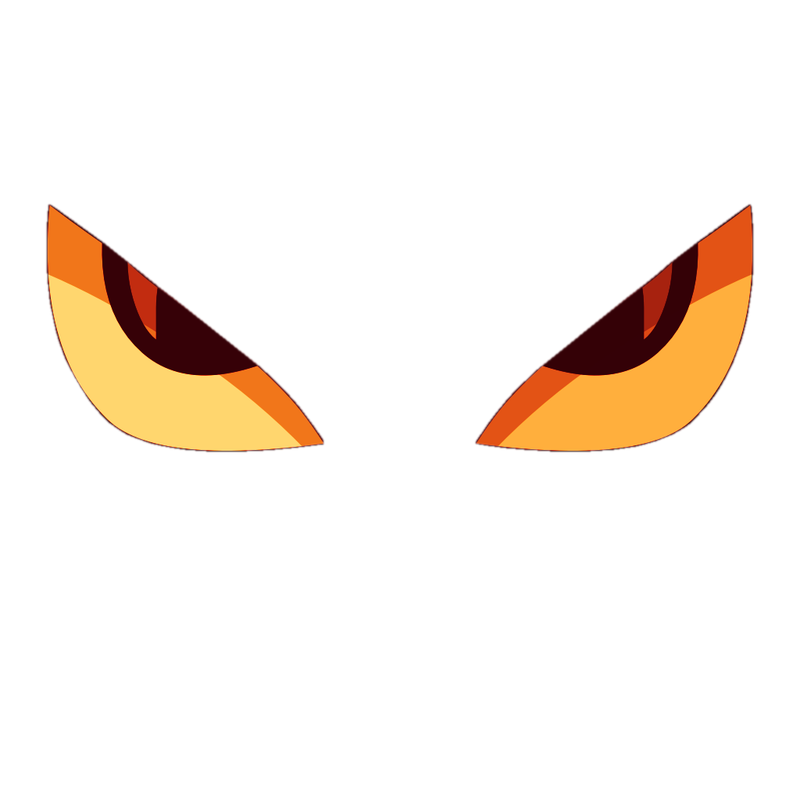
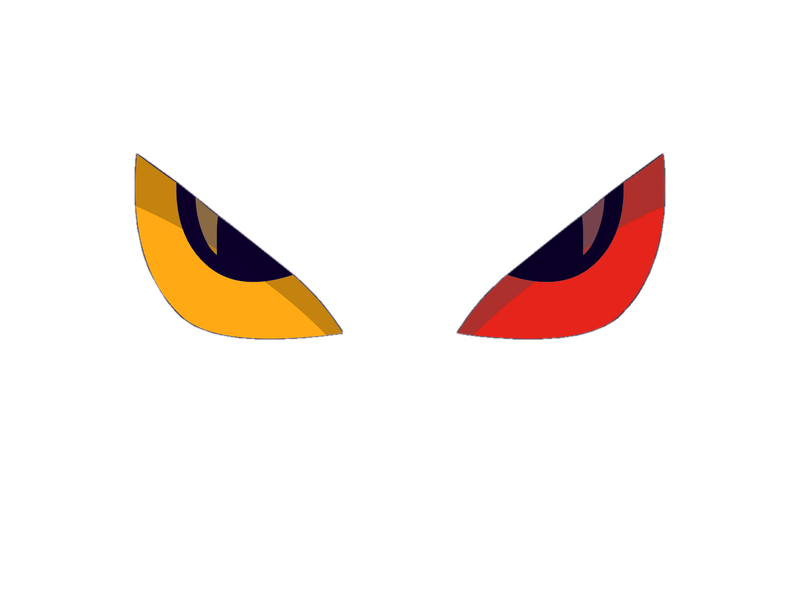
Web preview: smaller owl, whole screen is its body; eyes hidden above and pulled down with the page; pupils stay black, whites turn amber (left) / red (right); lid keeps the eye's shadow
Claude-Session: https://claude.ai/code/session_015DKXevDgdMV54Ws9NYxSBn

Changed region(s): [[0.5625, 0.2396, 0.9688, 0.5691], [0.0312, 0.2396, 0.4375, 0.5691]]

diff --git a/web/squeal-preview.html b/web/squeal-preview.html
@@ -180,7 +180,8 @@ img.cover { object-fit: cover; object-position: center 35%; filter: saturate(.85
 .screen { position: fixed; top: 0; bottom: 0; background: var(--bg); display: flex; flex-direction: column; box-shadow: -20px 0 40px rgba(0,0,0,.35); }
 /* Pull to refresh (home) */
 /* Home background: the owl from the app icon, eyes shut; they open only on pull to refresh. */
-#owlbg { position: absolute; inset: 0; width: 100%; height: 100%; z-index: 0; pointer-events: none; }
+#owlbg { position: absolute; left: 0; top: 0; width: 100%; z-index: 0; pointer-events: none; will-change: transform; }
+#owlbg.settle { transition: transform .38s cubic-bezier(.32,.72,0,1); }
 .view.settle { transition: transform .38s cubic-bezier(.32,.72,0,1); }
 .refreshed > * { animation: up .45s cubic-bezier(.25,.8,.25,1) both; }
 .refreshed > :nth-child(2) { animation-delay: .04s } .refreshed > :nth-child(3) { animation-delay: .08s } .refreshed > :nth-child(4) { animation-delay: .12s } .refreshed > :nth-child(n+5) { animation-delay: .16s }
@@ -363,45 +364,62 @@ function tween(ms, ease, step) {
 const wait = ms => new Promise(r => setTimeout(r, ms));
 const easeIn = t => t * t, easeOut = t => 1 - (1 - t) * (1 - t);
 
+/* Owl art: the icon at 3/4 of the screen width, its body continued to the sides and its stripes
+   down the page; above its head, the icon's own dark. Units below are the art's (800 wide). */
+const OWLART = { w: 800, h: 2430, eyesY: 246, eyesH: 601, k: 0.5865, P: 170, TOP: 420 };
+const owlXY = (x, y) => [(x + OWLART.P) * OWLART.k, (y + OWLART.TOP) * OWLART.k];   // icon (1024) units -> art units
+
 function owlBackground() {
   const NS = "http://www.w3.org/2000/svg";
   const svg = document.createElementNS(NS, "svg");
   svg.id = "owlbg"; svg.setAttribute("aria-hidden", "true");
-  svg.setAttribute("viewBox", "0 0 800 2080"); svg.setAttribute("preserveAspectRatio", "xMidYMin slice");
+  svg.setAttribute("viewBox", `0 0 ${OWLART.w} ${OWLART.h}`);
   /* a lid is a big tilted ellipse that slides down over the eye along the eye's slant */
-  const EYES = [{ c: [185, 328], rot: 30 }, { c: [615, 328], rot: -30 }];
+  const EYES = [{ c: owlXY(236.8, 419.8), rot: 30 }, { c: owlXY(787.2, 419.8), rot: -30 }];
+  const RX = 345.6 * OWLART.k, RY = 243.2 * OWLART.k, TRAVEL = 307.2 * OWLART.k;
   svg.innerHTML = `<defs>
-      <mask id="ob-lids" maskUnits="userSpaceOnUse" x="0" y="0" width="800" height="800">
-        <rect width="800" height="800" fill="#fff"/>
-        ${EYES.map(() => `<ellipse rx="270" ry="190" fill="#000"/>`).join("")}
+      <mask id="ob-lids" maskUnits="userSpaceOnUse" x="0" y="0" width="${OWLART.w}" height="${OWLART.h}">
+        <rect width="${OWLART.w}" height="${OWLART.h}" fill="#fff"/>
+        ${EYES.map(() => `<ellipse rx="${RX}" ry="${RY}" fill="#000"/>`).join("")}
       </mask>
-      <filter id="ob-glow" x="-20%" y="-20%" width="140%" height="140%"><feGaussianBlur stdDeviation="14"/></filter>
+      <filter id="ob-glow" x="-20%" y="-20%" width="140%" height="140%"><feGaussianBlur stdDeviation="9"/></filter>
     </defs>
-    <image href="brand/owl-bg.png" width="800" height="2080"/>
+    <image href="brand/owl-bg.png" width="${OWLART.w}" height="${OWLART.h}"/>
     <g mask="url(#ob-lids)">
-      <image href="brand/owl-eyes.png" width="800" height="800"/>
+      <image href="brand/owl-eyes.png" y="${OWLART.eyesY}" width="${OWLART.w}" height="${OWLART.eyesH}"/>
       <g id="ob-evil" opacity="0">
-        <image href="brand/owl-evil.png" width="800" height="800" filter="url(#ob-glow)" opacity=".9"/>
-        <image href="brand/owl-evil.png" width="800" height="800"/>
+        <image href="brand/owl-evil.png" y="${OWLART.eyesY}" width="${OWLART.w}" height="${OWLART.eyesH}" filter="url(#ob-glow)" opacity=".8"/>
+        <image href="brand/owl-evil.png" y="${OWLART.eyesY}" width="${OWLART.w}" height="${OWLART.eyesH}"/>
       </g>
     </g>`;
   const lids = [...svg.querySelectorAll("#ob-lids ellipse")], evil = svg.querySelector("#ob-evil");
   /* t = 1 shut, 0 open */
   const setLids = t => lids.forEach((el, i) => {
-    const e = EYES[i], n = [-Math.sin(e.rot * Math.PI / 180), Math.cos(e.rot * Math.PI / 180)], D = 240 * (1 - t);
-    const x = e.c[0] - n[0] * D, y = e.c[1] - n[1] * D + 10;
+    const e = EYES[i], n = [-Math.sin(e.rot * Math.PI / 180), Math.cos(e.rot * Math.PI / 180)], D = TRAVEL * (1 - t);
+    const x = e.c[0] - n[0] * D, y = e.c[1] - n[1] * D + 8 * OWLART.k;
     el.setAttribute("cx", x); el.setAttribute("cy", y); el.setAttribute("transform", `rotate(${e.rot} ${x} ${y})`);
   });
   setLids(1);
+  /* placement: at rest the eyes sit just above the screen; pulling brings them down with the page */
+  let scale = 1, restY = 0, follow = 1;
+  const layout = REST => {
+    scale = app.clientWidth / OWLART.w;
+    svg.style.height = OWLART.h * scale + "px";
+    const eyeBottom = (576 + OWLART.TOP) * OWLART.k * scale, eyeMid = (419.8 + OWLART.TOP) * OWLART.k * scale;
+    restY = -(eyeBottom + 12);
+    follow = (REST * .5 - eyeMid - restY) / REST;          // at the resting pull the eyes sit mid-gap
+    move(0);
+  };
+  const move = d => { svg.style.transform = `translateY(${restY + d * follow}px)`; };
   return {
-    svg,
+    svg, layout, move,
     async wake() {
       await tween(280, easeOut, t => setLids(1 - t));            // open
       await wait(260);
       await tween(120, easeIn, setLids);                         // blink: shut…
       evil.setAttribute("opacity", 1);
       await wait(60);
-      await tween(220, easeOut, t => setLids(1 - t));            // …and open, amber-red
+      await tween(220, easeOut, t => setLids(1 - t));            // …and open, amber / red
     },
     async sleep() {
       await tween(320, t => t * t * (3 - 2 * t), setLids);       // close slowly
@@ -413,12 +431,12 @@ function owlBackground() {
 function pullToRefresh() {
   const view = document.getElementById("view"), LINE = 140, REST = 250;
   app.style.position = "relative";
-  const owl = owlBackground(); app.prepend(owl.svg);
+  const owl = owlBackground(); app.prepend(owl.svg); owl.layout(REST);
   view.style.position = "relative"; view.style.zIndex = 1; view.style.background = "transparent";
   let y0 = null, x0 = 0, d = 0, busy = false, locked = false;
-  const show = d => { view.style.transform = d ? `translateY(${d}px)` : ""; };
+  const show = d => { view.style.transform = d ? `translateY(${d}px)` : ""; owl.move(d); };
   /* Works from anywhere, the slider too: a mostly-sideways move is left to the slider, a mostly-down one pulls. */
-  const start = (x, y) => { if (busy || view.scrollTop > 0) return; y0 = y; x0 = x; d = 0; locked = false; view.classList.remove("settle"); };
+  const start = (x, y) => { if (busy || view.scrollTop > 0) return; y0 = y; x0 = x; d = 0; locked = false; view.classList.remove("settle"); owl.svg.classList.remove("settle"); };
   const move = (x, y, e) => {
     if (y0 == null) return;
     const raw = y - y0;
@@ -438,7 +456,7 @@ function pullToRefresh() {
     if (!locked) return;
     const eat = e => { e.stopPropagation(); e.preventDefault(); };   // the pull is not a tap
     window.addEventListener("click", eat, { capture: true, once: true }); setTimeout(() => window.removeEventListener("click", eat, true), 60);
-    view.classList.add("settle");
+    view.classList.add("settle"); owl.svg.classList.add("settle");
     if (d < LINE) { show(d = 0); return; }    // not far enough: the page glides back, the owl sleeps on
     busy = true; show(d = REST);
     await wait(200);

diff --git a/web/template.html b/web/template.html
@@ -180,7 +180,8 @@ img.cover { object-fit: cover; object-position: center 35%; filter: saturate(.85
 .screen { position: fixed; top: 0; bottom: 0; background: var(--bg); display: flex; flex-direction: column; box-shadow: -20px 0 40px rgba(0,0,0,.35); }
 /* Pull to refresh (home) */
 /* Home background: the owl from the app icon, eyes shut; they open only on pull to refresh. */
-#owlbg { position: absolute; inset: 0; width: 100%; height: 100%; z-index: 0; pointer-events: none; }
+#owlbg { position: absolute; left: 0; top: 0; width: 100%; z-index: 0; pointer-events: none; will-change: transform; }
+#owlbg.settle { transition: transform .38s cubic-bezier(.32,.72,0,1); }
 .view.settle { transition: transform .38s cubic-bezier(.32,.72,0,1); }
 .refreshed > * { animation: up .45s cubic-bezier(.25,.8,.25,1) both; }
 .refreshed > :nth-child(2) { animation-delay: .04s } .refreshed > :nth-child(3) { animation-delay: .08s } .refreshed > :nth-child(4) { animation-delay: .12s } .refreshed > :nth-child(n+5) { animation-delay: .16s }
@@ -363,45 +364,62 @@ function tween(ms, ease, step) {
 const wait = ms => new Promise(r => setTimeout(r, ms));
 const easeIn = t => t * t, easeOut = t => 1 - (1 - t) * (1 - t);
 
+/* Owl art: the icon at 3/4 of the screen width, its body continued to the sides and its stripes
+   down the page; above its head, the icon's own dark. Units below are the art's (800 wide). */
+const OWLART = { w: 800, h: 2430, eyesY: 246, eyesH: 601, k: 0.5865, P: 170, TOP: 420 };
+const owlXY = (x, y) => [(x + OWLART.P) * OWLART.k, (y + OWLART.TOP) * OWLART.k];   // icon (1024) units -> art units
+
 function owlBackground() {
   const NS = "http://www.w3.org/2000/svg";
   const svg = document.createElementNS(NS, "svg");
   svg.id = "owlbg"; svg.setAttribute("aria-hidden", "true");
-  svg.setAttribute("viewBox", "0 0 800 2080"); svg.setAttribute("preserveAspectRatio", "xMidYMin slice");
+  svg.setAttribute("viewBox", `0 0 ${OWLART.w} ${OWLART.h}`);
   /* a lid is a big tilted ellipse that slides down over the eye along the eye's slant */
-  const EYES = [{ c: [185, 328], rot: 30 }, { c: [615, 328], rot: -30 }];
+  const EYES = [{ c: owlXY(236.8, 419.8), rot: 30 }, { c: owlXY(787.2, 419.8), rot: -30 }];
+  const RX = 345.6 * OWLART.k, RY = 243.2 * OWLART.k, TRAVEL = 307.2 * OWLART.k;
   svg.innerHTML = `<defs>
-      <mask id="ob-lids" maskUnits="userSpaceOnUse" x="0" y="0" width="800" height="800">
-        <rect width="800" height="800" fill="#fff"/>
-        ${EYES.map(() => `<ellipse rx="270" ry="190" fill="#000"/>`).join("")}
+      <mask id="ob-lids" maskUnits="userSpaceOnUse" x="0" y="0" width="${OWLART.w}" height="${OWLART.h}">
+        <rect width="${OWLART.w}" height="${OWLART.h}" fill="#fff"/>
+        ${EYES.map(() => `<ellipse rx="${RX}" ry="${RY}" fill="#000"/>`).join("")}
       </mask>
-      <filter id="ob-glow" x="-20%" y="-20%" width="140%" height="140%"><feGaussianBlur stdDeviation="14"/></filter>
+      <filter id="ob-glow" x="-20%" y="-20%" width="140%" height="140%"><feGaussianBlur stdDeviation="9"/></filter>
     </defs>
-    <image href="brand/owl-bg.png" width="800" height="2080"/>
+    <image href="brand/owl-bg.png" width="${OWLART.w}" height="${OWLART.h}"/>
     <g mask="url(#ob-lids)">
-      <image href="brand/owl-eyes.png" width="800" height="800"/>
+      <image href="brand/owl-eyes.png" y="${OWLART.eyesY}" width="${OWLART.w}" height="${OWLART.eyesH}"/>
       <g id="ob-evil" opacity="0">
-        <image href="brand/owl-evil.png" width="800" height="800" filter="url(#ob-glow)" opacity=".9"/>
-        <image href="brand/owl-evil.png" width="800" height="800"/>
+        <image href="brand/owl-evil.png" y="${OWLART.eyesY}" width="${OWLART.w}" height="${OWLART.eyesH}" filter="url(#ob-glow)" opacity=".8"/>
+        <image href="brand/owl-evil.png" y="${OWLART.eyesY}" width="${OWLART.w}" height="${OWLART.eyesH}"/>
       </g>
     </g>`;
   const lids = [...svg.querySelectorAll("#ob-lids ellipse")], evil = svg.querySelector("#ob-evil");
   /* t = 1 shut, 0 open */
   const setLids = t => lids.forEach((el, i) => {
-    const e = EYES[i], n = [-Math.sin(e.rot * Math.PI / 180), Math.cos(e.rot * Math.PI / 180)], D = 240 * (1 - t);
-    const x = e.c[0] - n[0] * D, y = e.c[1] - n[1] * D + 10;
+    const e = EYES[i], n = [-Math.sin(e.rot * Math.PI / 180), Math.cos(e.rot * Math.PI / 180)], D = TRAVEL * (1 - t);
+    const x = e.c[0] - n[0] * D, y = e.c[1] - n[1] * D + 8 * OWLART.k;
     el.setAttribute("cx", x); el.setAttribute("cy", y); el.setAttribute("transform", `rotate(${e.rot} ${x} ${y})`);
   });
   setLids(1);
+  /* placement: at rest the eyes sit just above the screen; pulling brings them down with the page */
+  let scale = 1, restY = 0, follow = 1;
+  const layout = REST => {
+    scale = app.clientWidth / OWLART.w;
+    svg.style.height = OWLART.h * scale + "px";
+    const eyeBottom = (576 + OWLART.TOP) * OWLART.k * scale, eyeMid = (419.8 + OWLART.TOP) * OWLART.k * scale;
+    restY = -(eyeBottom + 12);
+    follow = (REST * .5 - eyeMid - restY) / REST;          // at the resting pull the eyes sit mid-gap
+    move(0);
+  };
+  const move = d => { svg.style.transform = `translateY(${restY + d * follow}px)`; };
   return {
-    svg,
+    svg, layout, move,
     async wake() {
       await tween(280, easeOut, t => setLids(1 - t));            // open
       await wait(260);
       await tween(120, easeIn, setLids);                         // blink: shut…
       evil.setAttribute("opacity", 1);
       await wait(60);
-      await tween(220, easeOut, t => setLids(1 - t));            // …and open, amber-red
+      await tween(220, easeOut, t => setLids(1 - t));            // …and open, amber / red
     },
     async sleep() {
       await tween(320, t => t * t * (3 - 2 * t), setLids);       // close slowly
@@ -413,12 +431,12 @@ function owlBackground() {
 function pullToRefresh() {
   const view = document.getElementById("view"), LINE = 140, REST = 250;
   app.style.position = "relative";
-  const owl = owlBackground(); app.prepend(owl.svg);
+  const owl = owlBackground(); app.prepend(owl.svg); owl.layout(REST);
   view.style.position = "relative"; view.style.zIndex = 1; view.style.background = "transparent";
   let y0 = null, x0 = 0, d = 0, busy = false, locked = false;
-  const show = d => { view.style.transform = d ? `translateY(${d}px)` : ""; };
+  const show = d => { view.style.transform = d ? `translateY(${d}px)` : ""; owl.move(d); };
   /* Works from anywhere, the slider too: a mostly-sideways move is left to the slider, a mostly-down one pulls. */
-  const start = (x, y) => { if (busy || view.scrollTop > 0) return; y0 = y; x0 = x; d = 0; locked = false; view.classList.remove("settle"); };
+  const start = (x, y) => { if (busy || view.scrollTop > 0) return; y0 = y; x0 = x; d = 0; locked = false; view.classList.remove("settle"); owl.svg.classList.remove("settle"); };
   const move = (x, y, e) => {
     if (y0 == null) return;
     const raw = y - y0;
@@ -438,7 +456,7 @@ function pullToRefresh() {
     if (!locked) return;
     const eat = e => { e.stopPropagation(); e.preventDefault(); };   // the pull is not a tap
     window.addEventListener("click", eat, { capture: true, once: true }); setTimeout(() => window.removeEventListener("click", eat, true), 60);
-    view.classList.add("settle");
+    view.classList.add("settle"); owl.svg.classList.add("settle");
     if (d < LINE) { show(d = 0); return; }    // not far enough: the page glides back, the owl sleeps on
     busy = true; show(d = REST);
     await wait(200);
